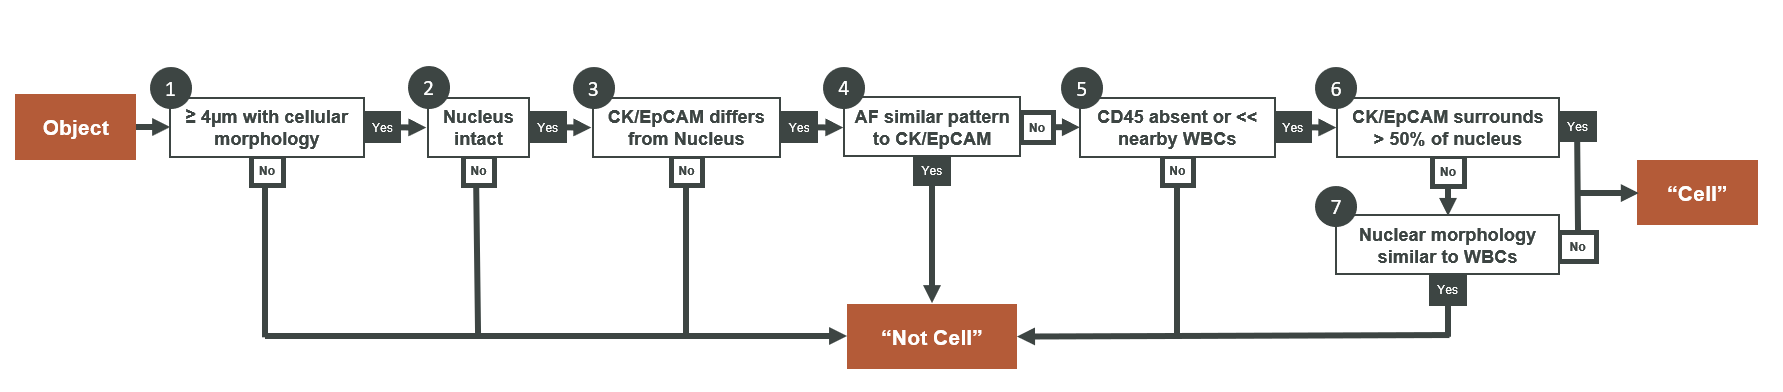
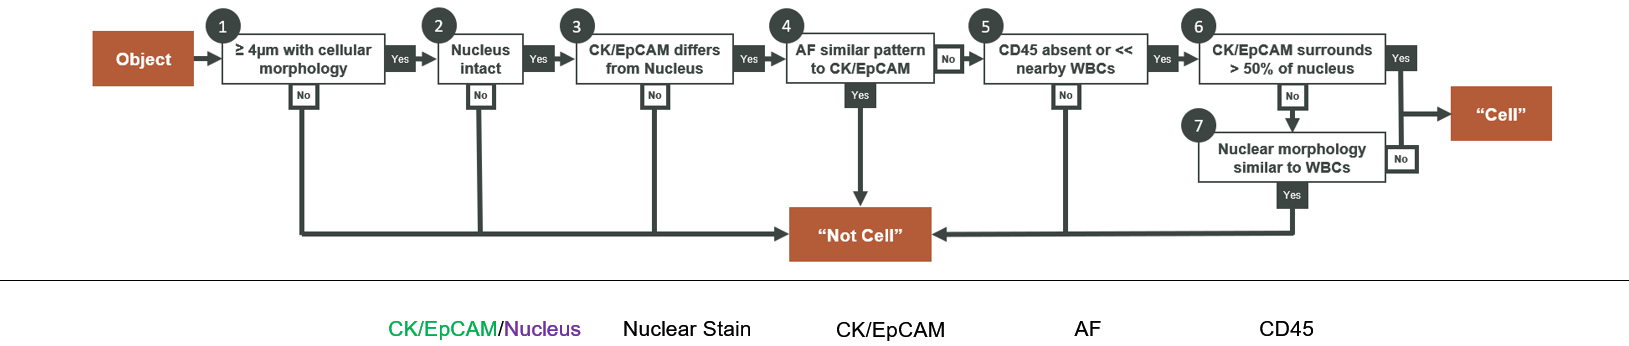
updated checkbox style

Changed region(s): [[0.0, 0.0289, 1.0, 0.9827], [0.7673, 0.9249, 0.8287, 0.9827], [0.6446, 0.9249, 0.6753, 0.9827]]

diff --git a/public/styles.css b/public/styles.css
@@ -26,13 +26,11 @@ body,html {
 }
 
 #headerImage {
-    margin-left: 21.5%;
-    width: 60%;
-    max-width: 60%;
+    margin-left: 12%;
+    width: 80%;
     height: auto;
     position: sticky;
     top: 0;
-    border-bottom: 1px solid black;
 }
 
 #two {
@@ -62,7 +60,7 @@ body,html {
 } 
 
 #content {
-    margin-top: 5%;
+    margin-top: -5%;
 }
 
 .new-image-row {
@@ -89,7 +87,7 @@ body,html {
 .checkbox-label {
     color: white;
     font-family: "Arial";
-    font-size: 1vw;
+    font-size: 1.1vw;
 }
 
 .checkbox-label input {
@@ -98,6 +96,51 @@ body,html {
 
 .checkbox-label label span {
     vertical-align: middle;
+}
+
+.checkbox-container {
+    display: flex;
+    align-items: center;
+}
+
+.checkbox-container label {
+    cursor: pointer;
+}
+
+.checkbox {
+    cursor: pointer;
+}
+
+#buffer {
+    margin-top: 0.7vw;
+}
+
+.checkbox-container input[type='checkbox'] {
+    opacity: 0;
+    position: absolute;
+}
+
+.checkbox-container label {
+    cursor: pointer;
+    display: flex;
+}
+
+.checkbox-container label:before{
+    content: '';
+    width: 1em;
+    height: 1em;
+    border-radius: 100%;
+    margin-right: 0.5em;
+    background-color: white;
+    border: 0.05em solid black;
+}
+
+.checkbox-container input[type='checkbox']:checked + label::before {
+    content: '\002714';
+    background-color: RGB(180,91,56);
+    display: flex;
+    justify-content: center;
+    align-items: center;
 }
 
 .cell-row-image-container {
@@ -117,49 +160,18 @@ body,html {
     border: 5px solid rgba(248, 245, 245, 0.829);
 }
 
-.cellType {
-    font-size: 1vw;
-}
-
-#type1 {
-    margin-left: 15.8%;
-    color: RGB(0,176,80);
-}
-
-#type2 {
-    margin-left: 0%;
-}
-
-#type3 {
-    margin-left: -0.25%;
-    color: RGB(144,59,132);
-}
-
-#type4 {
-    margin-left: 2.9%;
-}
-
-#type5 {
-    margin-left: 7.5%;
-}
-
-#type6 {
-    margin-left: 10%;
-}
-
-#type7 {
-    margin-left: 13%;
-}
-
 .button {
+    cursor: pointer;
     margin-top: 1%;
-    margin-left: 54.5%;
+    margin-bottom: 2%;
+    margin-left: 54%;
     background: RGB(180,91,56);
     color: white;
     font: bold 15px "Arial";
 }
 
 .returnbutton {
+    cursor: pointer;
     margin-left: 50%;
 }
 

diff --git a/server.js b/server.js
@@ -43,6 +43,7 @@ app.listen(process.env.PORT || 3000);
 
 function driveApp(answerKeyPage,request,firstCellImageNumber) {
     var answerKey = createAnswerKey(answerKeyPage);
+    checkAnswerKey(answerKey);
     var userResponses = [];
     var userResponses = initUserResponses(request);
     recordUserResponses(userResponses);
@@ -51,23 +52,26 @@ function driveApp(answerKeyPage,request,firstCellImageNumber) {
 
 function createAnswerKey(answerKey) {
     var ansKey = answerKey.answerKey;
-    var answers = [];
     for (var i = 0; i < ansKey.length; i++) {
         if (ansKey[i] === "y") {
             ansKey[i] = true;
         } else if (ansKey[i] === "n") {
             ansKey[i] = false;
-        } 
+        } else {
+            ansKey[i] = null;
+        }
     }
-    return answers;
+    return ansKey;
 }
 
 function checkAnswerKey(answerKey) {
-    for (var i = 0; i < answerKey.length; i++) {
-        try {
-
-        } catch {
-            
+    if (answerKey.length != 5) {
+        throw "invalid answer key";
+    } else {
+        for (var i = 0; i < answerKey.length; i++) {
+            if (answerKey[i] == null) {
+                throw "invalid answer key";
+            }
         }
     }
 }

diff --git a/public/create_page_one.js b/public/create_page_one.js
@@ -4,10 +4,13 @@ for (var i = 0; i < 5; i++) {
     newDiv.innerHTML = 
         "<div class='new-image-row'> "+ 
             "<div class='checkboxes-container'>" + 
-                "<div>" + 
+                "<div class='checkbox-container'>" + 
                     "<input type='checkbox' name='yes"+i+"' class='checkbox yescheckboxes' id="+i+"> <label for='yes' class='checkbox-label'>CTC</label>" + 
                 "</div>" + 
+                "<div id='buffer'></div>" + 
+                "<div class='checkbox-container'>" + 
                     "<input type='checkbox' name='no"+i+"' class = 'checkbox nocheckboxes' id="+i+"> <label for='yes' class='checkbox-label'>Not-CTC</label>" + 
+                "</div>" +
                 "</div>" +
                 "<div class= 'cell-row-image-container'>" + 
                     "<img src='/static/cell_images/cell"+i+".JPG' alt='This image was originally intended to display a row of cell images' id='cellImage'>" + 

diff --git a/page_two.html b/page_two.html
@@ -8,20 +8,7 @@
 </head>
 
 <body>
-    <div class="wrapper">
-        <div id="one">
-            <img src="static/cell_answers/instructions.PNG" id="headerImage">
-        </div>
-        <div id="two">
-            <span class="cellType" id="type1"> CK/EpCAM </span>
-            <span class="cellType" id="type2">/</span>
-            <span class="cellType" id="type3"> Nucleus </span> 
-            <span class="cellType" id="type4"> Nuclear Stain </span>
-            <span class="cellType" id="type5"> CK/EpCAM </span>
-            <span class="cellType" id="type6"> AF </span>
-            <span class="cellType" id="type7"> CD45 </span>  
-        </div>
-    </div>
+    <img src="static/cell_answers/instructions.PNG" id="headerImage">
     <div id="formDiv">
         <form action="/page_two" method="POST" id='form'></form>
     </div>

diff --git a/page_one.html b/page_one.html
@@ -8,20 +8,7 @@
 </head>
 
 <body>
-    <div class="wrapper">
-        <div id="one">
-            <img src="static/cell_answers/instructions.PNG" id="headerImage">
-        </div>
-        <div id="two">
-            <span class="cellType" id="type1"> CK/EpCAM </span>
-            <span class="cellType" id="type2">/</span>
-            <span class="cellType" id="type3"> Nucleus </span> 
-            <span class="cellType" id="type4"> Nuclear Stain </span>
-            <span class="cellType" id="type5"> CK/EpCAM </span>
-            <span class="cellType" id="type6"> AF </span>
-            <span class="cellType" id="type7"> CD45 </span>  
-        </div>
-    </div>
+    <img src="static/cell_answers/instructions.PNG" id="headerImage">
     <div id="formDiv">
         <form action="/" method="POST" id='form'></form>
     </div>

diff --git a/public/create_results.js b/public/create_results.js
@@ -1,16 +1,16 @@
 async function getBlock() {
     let jsonBlocks;
     try {
-      var response = await fetch("/static/incorrect_image_paths.json");
-      jsonBlocks = await response.text();
-      var arr = jsonObjectContents(jsonBlocks);
-      buildDoc(arr);
+        var response = await fetch("/static/incorrect_image_paths.json");
+        jsonBlocks = await response.text();
+        var arr = jsonObjectContents(jsonBlocks);
+        buildDoc(arr);
     } catch (e) {
-      console.error(e);
+        console.error(e);
     }
-  }
+}
 
-  getBlock();
+getBlock();
 
 function jsonObjectContents(jsonBlocks) {
     var imagePathStrings = "";

diff --git a/answer_key_page_two.js b/answer_key_page_two.js
@@ -1,4 +1,4 @@
- // image num :    5   6   7   8   9
- var answerKey = ['y','y','y','y','y'];
+// image num :    5   6   7   8   9
+var answerKey = ['y','y','y','y','y'];
 
- exports.answerKey = answerKey;
+exports.answerKey = answerKey;

diff --git a/answer_key_page_one.js b/answer_key_page_one.js
@@ -1,4 +1,4 @@
- // cell num:     0   1   2   3   4
+// cell num:     0   1   2   3   4
 var answerKey = ['y','y','y','y','y'];
 
 exports.answerKey = answerKey;
